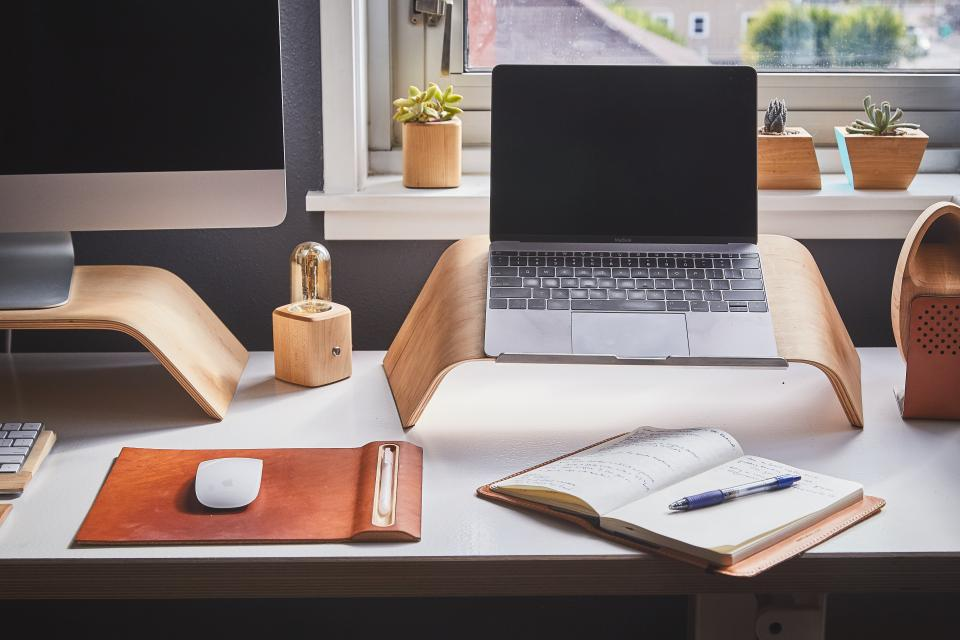
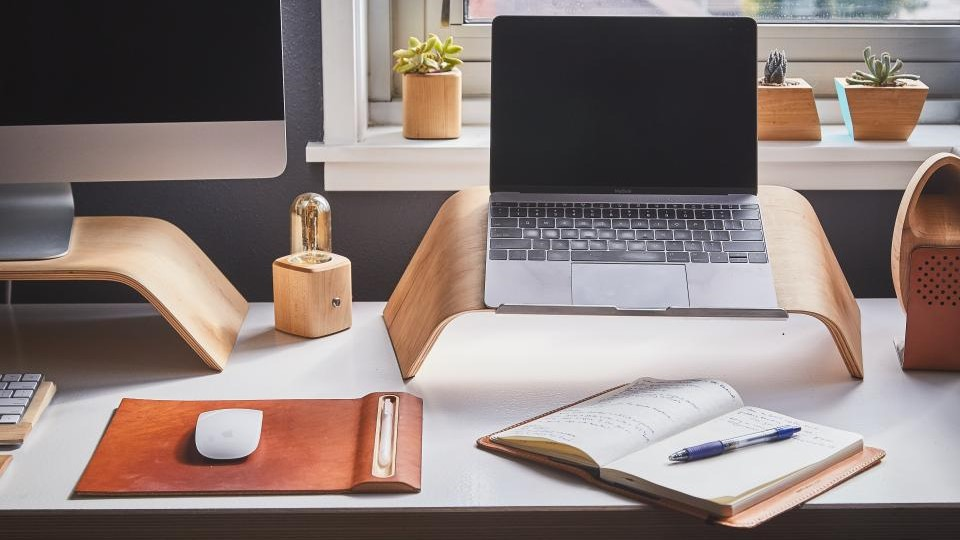
aspect ratio fixed

diff --git a/index.html b/index.html
@@ -34,7 +34,7 @@
         </div>
         <div class="row">
             <div class="col s12 aboutMeImage">
-                <img src="assets/images/SamandSola_SarahCole3.jpg" alt="image">
+                <img class="responsive-img" src="assets/images/SamandSola_SarahCole3.jpg" alt="image">
                 <div id="banner-aboutme">ABOUT ME</div>
             </div>
             <div class="col s12">
@@ -102,26 +102,26 @@
                 <p>My very first website built during UW Coding Bootcamp. This site
                     was created using HTML and CSS without any CSS frameworks like bootstrap.
                 </p>
-                <img src="assets/images/firstwebsite.jpg" alt="image">
+                <img class="responsive-img" src="assets/images/firstwebsite.jpg" alt="image">
             </div>
             <div class="col s12">
                 <h4>Password Generator</h4>
                 <p>Created an application that generates a random password based on
                     user-selected criteria. This app runs in the browser and feature dynamically updated
                     HTML and CSS powered by the JavaScript code.</p>
-                <img src="assets/images/passwordgenerator.png" alt="">
+                <img class="responsive-img"  src="assets/images/passwordgenerator.png" alt="">
             </div>
             <div class="col s12">
                 <h4>Code Quiz</h4>
                 <p>From scratch, built a timer-based quiz application that stores scores
                     client-side.</p>
-                <img src="assets/images/codequiz.png" alt="image">
+                <img  class="responsive-img" src="assets/images/codequiz.png" alt="image">
             </div>
             <div class="col s12">
                 <h4>Day Planner</h4>
                 <p>Created a simple calendar application that allows the user to save events for each hour of the day.
                     This app runs in the browser and features dynamically updated HTML and CSS powered by jQuery.</p>
-                <img src="" alt="image">
+                <img src="" alt="">
             </div>
             <div class="col s12">
                 <h4>Weather Channel</h4>
@@ -129,12 +129,12 @@
                     debitis
                     repudiandae exercitationem quas magnam saepe, illum mollitia eligendi iusto. Earum quia ipsam
                     asperiores.</p>
-                <img src="" alt="image">
+                <img src="" alt="">
             </div>
             <div class="col s12">
                 <h4>Tender</h4>
                 <p>Built a web application using two server-side APIs, a third party CSS and Javascript framework.</p>
-                <img src="assets/images/first project.jpg" alt="image">
+                <img class="responsive-img" src="assets/images/first project.jpg" alt="image">
             </div>
         </div>
         <div class="row">

diff --git a/assets/css/style.css b/assets/css/style.css
@@ -30,7 +30,8 @@
 }
 
 img {
-    width: 100%;
+    width: 1915px;
+    height:940px;
 }
 
 #scroll{
